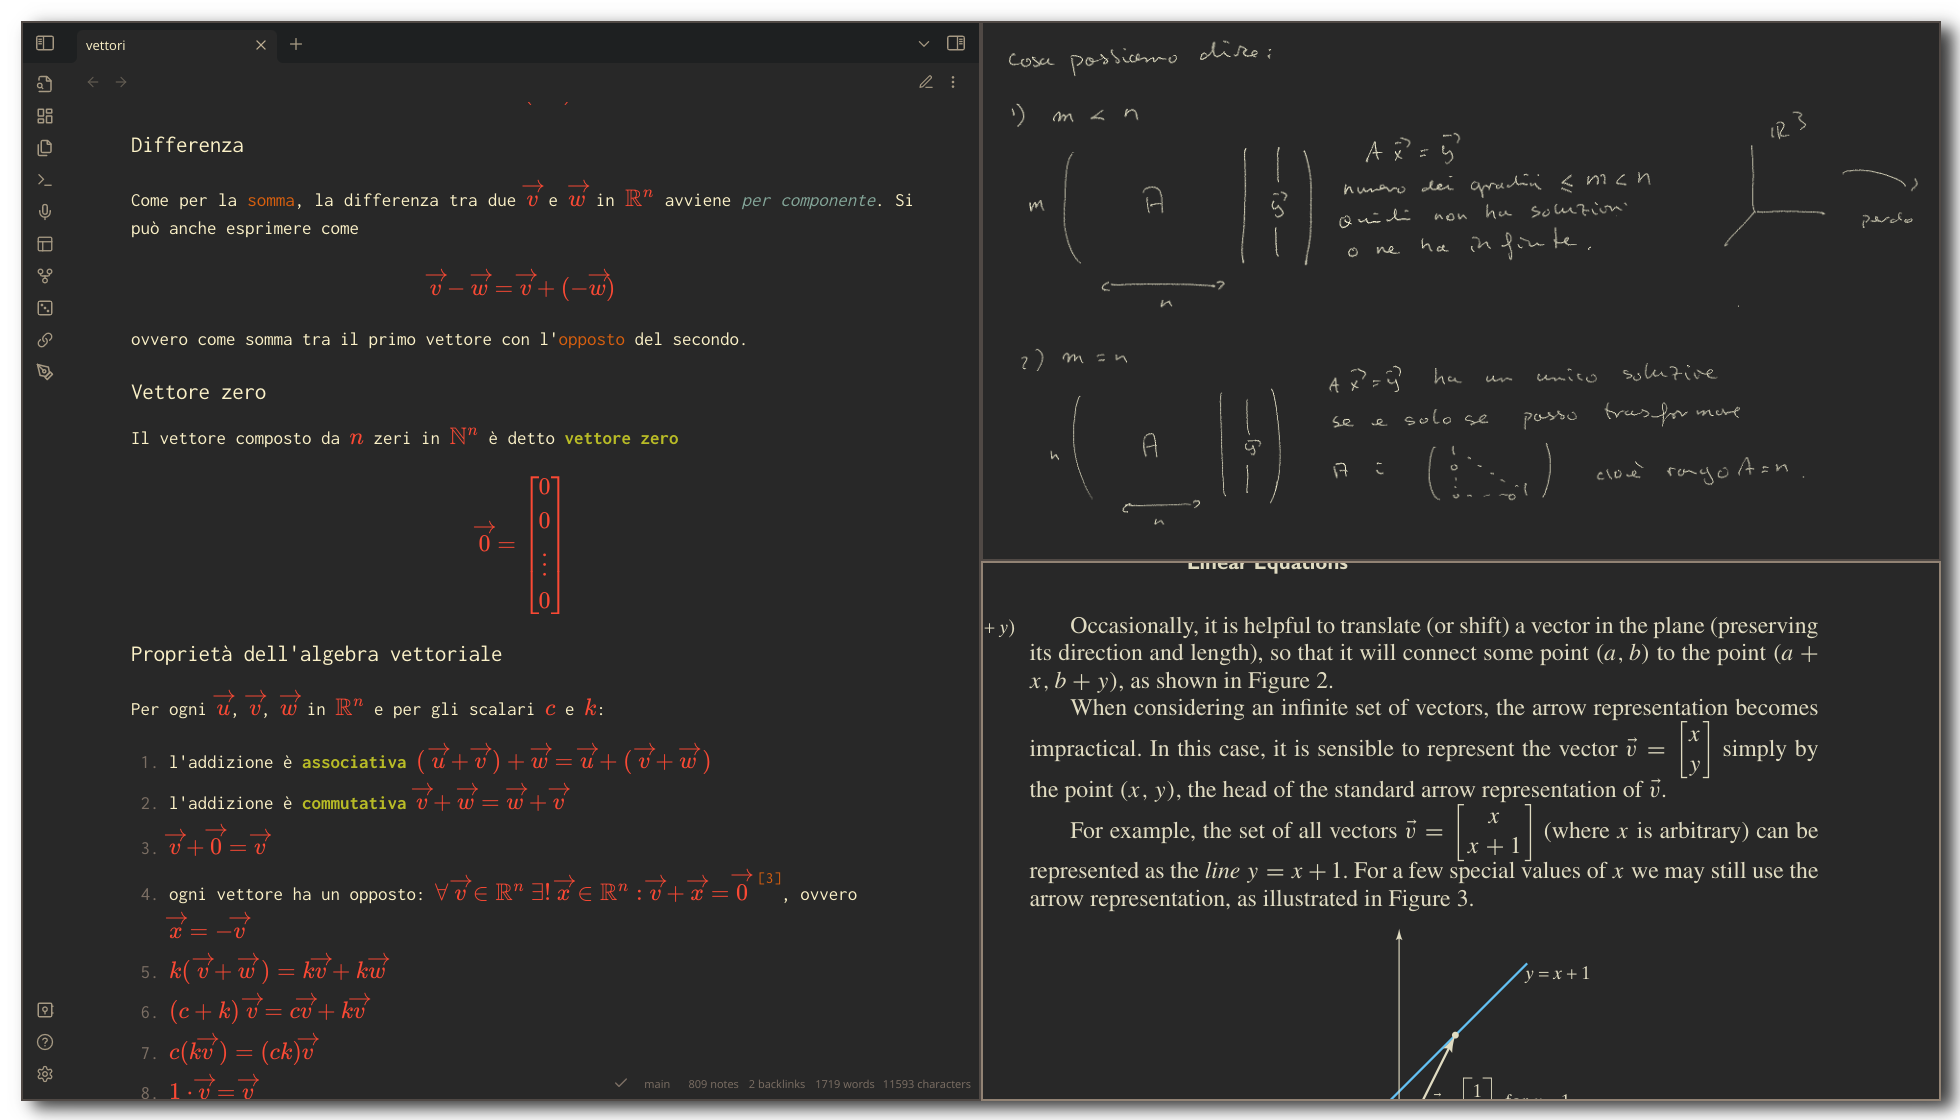
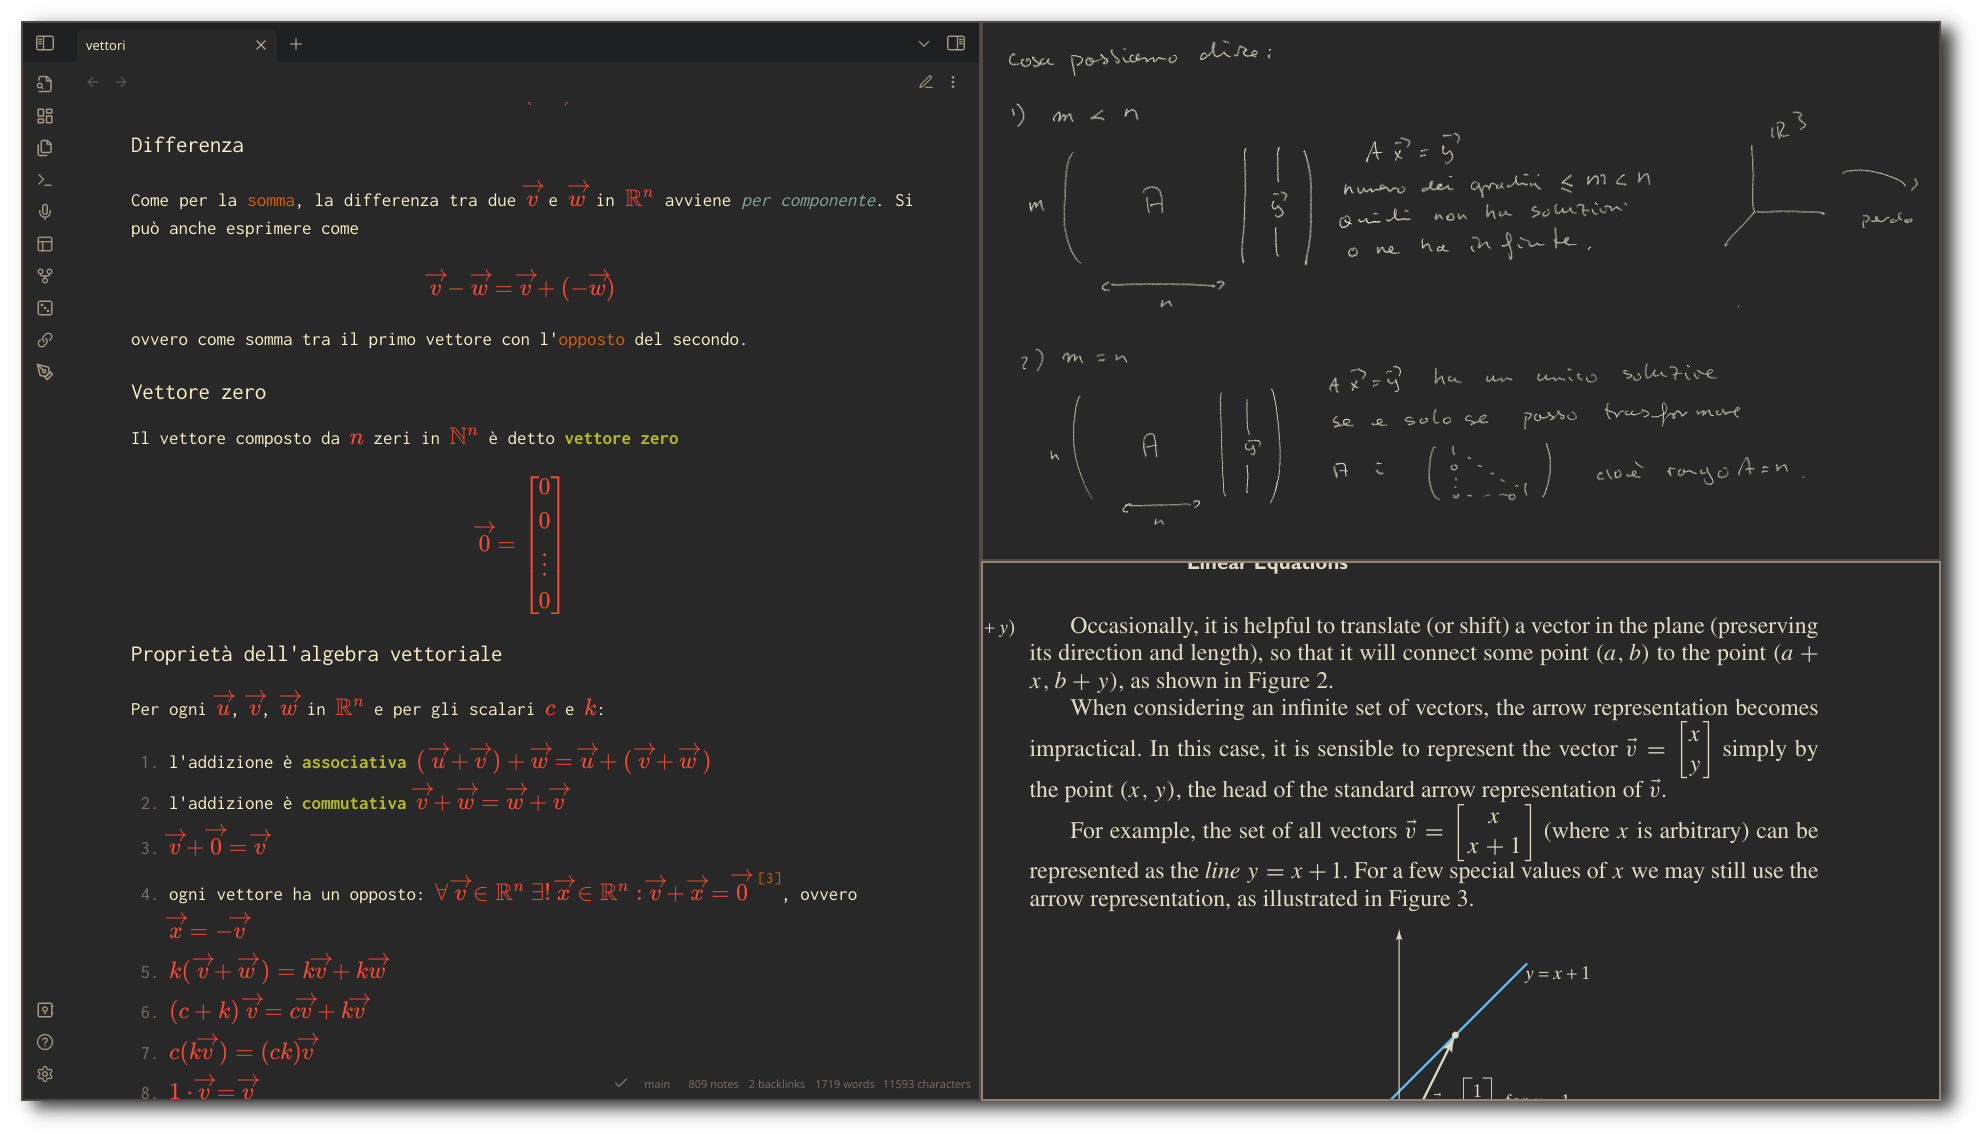
fixed drop shadow

diff --git a/README.md b/README.md
@@ -24,7 +24,7 @@
 - GTK theme: [Gruvbox-GTK-Theme by Fausto-Korpsvart](https://github.com/Fausto-Korpsvart/Gruvbox-GTK-Theme) 
 - Telegram theme: [tdesktop-gruvbox-dark-medium](https://github.com/ttohin/tdesktop-gruvbox-dark-medium)
 
-### Focus mode
+## Focus mode
 
 The desktop can turn boring by just pressing <kbd>CTRL</kbd>+<kbd>B</kbd>. This is done by a simple script that toggles the bar and removes all the fancy Hyprland decorations.
 
